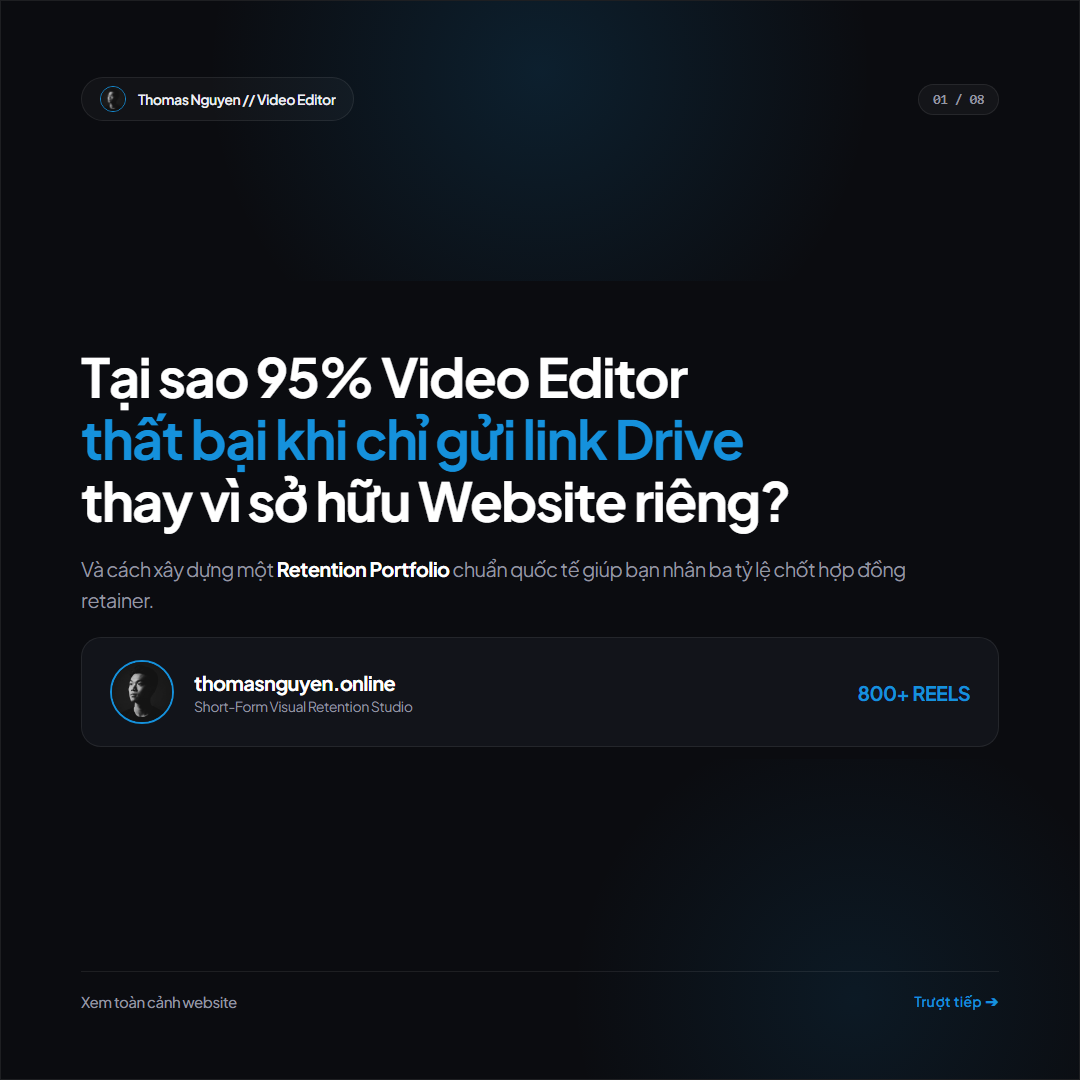
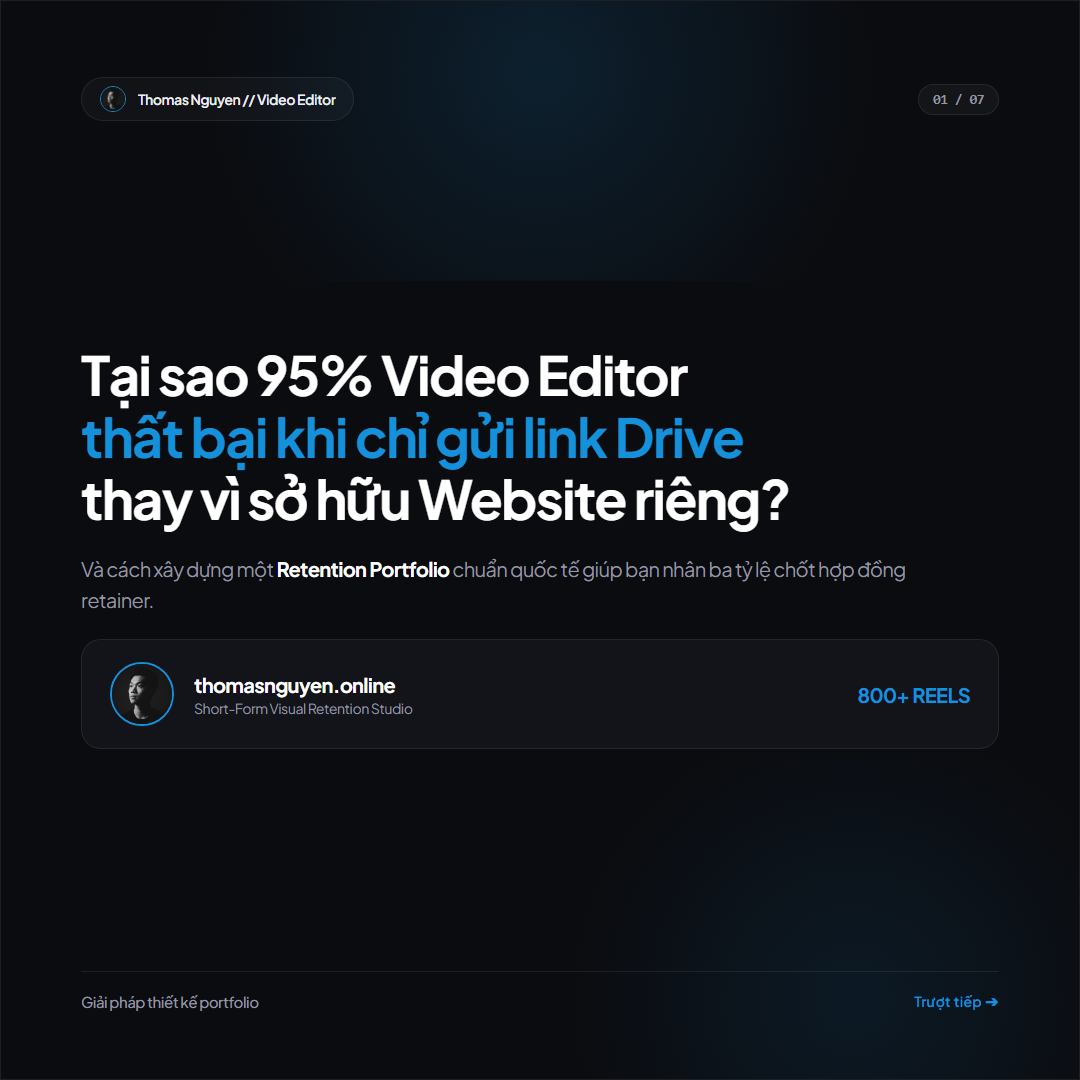
Remove slide 2, finalize 7-Slide Instagram Carousel with HD Reels and refined CTA button

diff --git a/public/carousel_maker.html b/public/carousel_maker.html
@@ -3,7 +3,7 @@
 <head>
   <meta charset="UTF-8">
   <meta name="viewport" content="width=device-width, initial-scale=1.0">
-  <title>Instagram Carousel 1:1 - Pure Swiss Font - 8 Harmonious Slides</title>
+  <title>Instagram Carousel 1:1 - Pure Swiss Font - 7 Clean Slides</title>
   <link rel="preconnect" href="https://fonts.googleapis.com">
   <link rel="preconnect" href="https://fonts.gstatic.com" crossorigin>
   <link href="https://fonts.googleapis.com/css2?family=Plus+Jakarta+Sans:wght@400;500;600;700;800&display=swap" rel="stylesheet">
@@ -102,7 +102,7 @@
       z-index: 10;
       display: flex;
       flex-direction: column;
-      gap: 22px;
+      gap: 24px;
     }
     .slide-footer {
       position: relative;
@@ -129,7 +129,7 @@
       background: #12141a;
       border: 1px solid rgba(255,255,255,0.08);
       border-radius: 20px;
-      padding: 22px 26px;
+      padding: 24px 28px;
     }
     .badge-pill {
       display: inline-flex;
@@ -147,13 +147,6 @@
       background: rgba(21,145,220,0.15);
       border-color: rgba(21,145,220,0.4);
       color: #1591DC;
-    }
-    .mosaic-card {
-      border-radius: 14px;
-      overflow: hidden;
-      border: 1px solid rgba(255,255,255,0.1);
-      background: #000;
-      position: relative;
     }
   </style>
   <script>
@@ -186,7 +179,7 @@
         <img src="/thomas_portrait.jpg" alt="Thomas">
         <span>Thomas Nguyen // Video Editor</span>
       </div>
-      <div class="slide-num">01 / 08</div>
+      <div class="slide-num">01 / 07</div>
     </div>
 
     <div class="slide-content">
@@ -213,12 +206,12 @@
     </div>
 
     <div class="slide-footer">
-      <span>Xem toàn cảnh website</span>
+      <span>Giải pháp thiết kế portfolio</span>
       <div class="swipe-indicator">Trượt tiếp ➔</div>
     </div>
   </div>
 
-  <!-- SLIDE 2: TOÀN CẢNH CROP CÁC PHÂN ĐOẠN CỦA WEBSITE TRONG 1 ÁNH NHÌN (NEW MOSAIC SHOWCASE) -->
+  <!-- SLIDE 2: MULTI-ANGLE SYSTEM OVERVIEW -->
   <div class="slide" id="slide-2">
     <div class="glow-top"></div>
     <div class="glow-bottom"></div>
@@ -226,98 +219,9 @@
     <div class="slide-header">
       <div class="brand-tag">
         <img src="/thomas_portrait.jpg" alt="Thomas">
-        <span>Toàn cảnh website</span>
+        <span>Tổng quan hệ thống</span>
       </div>
-      <div class="slide-num">02 / 08</div>
-    </div>
-
-    <div class="slide-content">
-      <div>
-        <h2 style="font-size: 40px; font-weight: 700; color: #ffffff; line-height: 1.2;">
-          Toàn bộ Website <span style="color: #1591DC;">trong 1 ánh nhìn</span>
-        </h2>
-        <p style="font-size: 16px; color: #9496a1; margin-top: 4px;">
-          Giải phẫu 5 phân đoạn được tối ưu hóa tỷ lệ chuyển đổi từ Hero đến Form nhận Brief.
-        </p>
-      </div>
-
-      <!-- Clean Visual Mosaic Grid of Website Sections -->
-      <div style="display: grid; grid-template-columns: 1fr 1fr; gap: 14px; height: 420px;">
-        
-        <!-- Module 1: Hero & Metric Card -->
-        <div class="card-box" style="padding: 16px; display: flex; flex-direction: column; justify-content: space-between; border-color: rgba(21,145,220,0.35);">
-          <div style="display: flex; justify-content: space-between; align-items: center;">
-            <span style="font-size: 11px; font-weight: 700; color: #1591DC; font-family: monospace;">01. HERO & METRICS</span>
-            <span style="font-size: 10px; color: #9496a1;">FIRST IMPRESSION</span>
-          </div>
-          <div style="font-size: 15px; font-weight: 700; color: #fff; line-height: 1.3;">
-            "Every Great Story Deserves a <span style="color: #1591DC;">Great Editor</span>"
-          </div>
-          <div style="display: flex; gap: 8px; font-size: 11px;">
-            <span style="background: rgba(255,255,255,0.06); padding: 4px 8px; border-radius: 6px; color: #fff; font-weight: 700;">800+ Reels</span>
-            <span style="background: rgba(21,145,220,0.15); padding: 4px 8px; border-radius: 6px; color: #1591DC; font-weight: 700;">85%+ Retention</span>
-          </div>
-        </div>
-
-        <!-- Module 2: About Portrait Spotlight -->
-        <div class="card-box" style="padding: 16px; display: flex; gap: 14px; align-items: center;">
-          <img src="/thomas_portrait.jpg" style="width: 70px; height: 90px; border-radius: 10px; object-fit: cover; filter: grayscale(100%) contrast(125%); border: 1px solid rgba(255,255,255,0.15);">
-          <div style="display: flex; flex-direction: column; gap: 4px;">
-            <span style="font-size: 11px; font-weight: 700; color: #1591DC; font-family: monospace;">02. ABOUT SPOTLIGHT</span>
-            <div style="font-size: 14px; font-weight: 700; color: #fff;">Chân Dung Studio</div>
-            <div style="font-size: 11px; color: #9496a1;">Tạo dựng niềm tin cá nhân vững chắc</div>
-          </div>
-        </div>
-
-        <!-- Module 3: 9:16 Video Showcase Slider -->
-        <div class="card-box" style="padding: 16px; display: flex; flex-direction: column; justify-content: space-between;">
-          <div style="display: flex; justify-content: space-between; align-items: center;">
-            <span style="font-size: 11px; font-weight: 700; color: #1591DC; font-family: monospace;">03. REELS 9:16 SHOWCASE</span>
-            <span style="font-size: 10px; color: #4ade80;">10 REELS LIVE</span>
-          </div>
-          <div style="display: flex; gap: 8px;">
-            <img src="/reel_thumb_1.jpg" style="width: 48px; height: 64px; border-radius: 6px; object-fit: cover; border: 1px solid rgba(255,255,255,0.1);">
-            <img src="/reel_thumb_2.jpg" style="width: 48px; height: 64px; border-radius: 6px; object-fit: cover; border: 1px solid #1591DC;">
-            <img src="/reel_thumb_3.jpg" style="width: 48px; height: 64px; border-radius: 6px; object-fit: cover; border: 1px solid rgba(255,255,255,0.1);">
-          </div>
-          <div style="font-size: 11px; color: #9496a1;">Xem ngay 1 click, không độ trễ</div>
-        </div>
-
-        <!-- Module 4: 3-Step Process & Intake Form -->
-        <div class="card-box" style="padding: 16px; display: flex; flex-direction: column; justify-content: space-between;">
-          <div style="display: flex; justify-content: space-between; align-items: center;">
-            <span style="font-size: 11px; font-weight: 700; color: #1591DC; font-family: monospace;">04. PROCESS & FUNNEL</span>
-            <span style="font-size: 10px; color: #9496a1;">48H DELIVERY</span>
-          </div>
-          <div style="font-size: 12px; color: #ededf3; line-height: 1.4;">
-            • Tiến độ 48H trên Frame.io <br>
-            • Form gửi Brief tự động về Gmail
-          </div>
-          <div style="display: flex; gap: 6px;">
-            <span style="font-size: 10px; background: #1591DC; color: #fff; padding: 2px 8px; border-radius: 4px; font-weight: 700;">Calendly Sync</span>
-          </div>
-        </div>
-
-      </div>
-    </div>
-
-    <div class="slide-footer">
-      <span>Trải nghiệm đa thiết bị</span>
-      <div class="swipe-indicator">Trượt tiếp ➔</div>
-    </div>
-  </div>
-
-  <!-- SLIDE 3: MULTI-ANGLE SYSTEM OVERVIEW -->
-  <div class="slide" id="slide-3">
-    <div class="glow-top"></div>
-    <div class="glow-bottom"></div>
-    
-    <div class="slide-header">
-      <div class="brand-tag">
-        <img src="/thomas_portrait.jpg" alt="Thomas">
-        <span>Giao diện thực tế</span>
-      </div>
-      <div class="slide-num">03 / 08</div>
+      <div class="slide-num">02 / 07</div>
     </div>
 
     <div class="slide-content">
@@ -330,6 +234,7 @@
         </p>
       </div>
 
+      <!-- Balanced UI Preview Grid -->
       <div style="display: grid; grid-template-columns: 1.3fr 1fr; gap: 18px;">
         
         <!-- Desktop UI Mockup Box -->
@@ -415,8 +320,8 @@
     </div>
   </div>
 
-  <!-- SLIDE 4: POSITIONING & REAL STUDIO PORTRAIT -->
-  <div class="slide" id="slide-4">
+  <!-- SLIDE 3: POSITIONING & REAL STUDIO PORTRAIT -->
+  <div class="slide" id="slide-3">
     <div class="glow-top"></div>
     <div class="glow-bottom"></div>
     
@@ -425,7 +330,7 @@
         <img src="/thomas_portrait.jpg" alt="Thomas">
         <span>Định vị chuyên gia</span>
       </div>
-      <div class="slide-num">04 / 08</div>
+      <div class="slide-num">03 / 07</div>
     </div>
 
     <div class="slide-content">
@@ -481,8 +386,8 @@
     </div>
   </div>
 
-  <!-- SLIDE 5: VIDEO SHOWCASE WITH REAL THUMBS -->
-  <div class="slide" id="slide-5">
+  <!-- SLIDE 4: VIDEO SHOWCASE WITH REAL THUMBS -->
+  <div class="slide" id="slide-4">
     <div class="glow-top"></div>
     <div class="glow-bottom"></div>
     
@@ -491,7 +396,7 @@
         <img src="/thomas_portrait.jpg" alt="Thomas">
         <span>Trình diễn sản phẩm</span>
       </div>
-      <div class="slide-num">05 / 08</div>
+      <div class="slide-num">04 / 07</div>
     </div>
 
     <div class="slide-content">
@@ -558,8 +463,8 @@
     </div>
   </div>
 
-  <!-- SLIDE 6: 3-STEP PROCESS -->
-  <div class="slide" id="slide-6">
+  <!-- SLIDE 5: 3-STEP PROCESS -->
+  <div class="slide" id="slide-5">
     <div class="glow-top"></div>
     <div class="glow-bottom"></div>
     
@@ -568,7 +473,7 @@
         <img src="/thomas_portrait.jpg" alt="Thomas">
         <span>Quy trình làm việc</span>
       </div>
-      <div class="slide-num">06 / 08</div>
+      <div class="slide-num">05 / 07</div>
     </div>
 
     <div class="slide-content">
@@ -629,8 +534,8 @@
     </div>
   </div>
 
-  <!-- SLIDE 7: CONVERSION FUNNEL -->
-  <div class="slide" id="slide-7">
+  <!-- SLIDE 6: CONVERSION FUNNEL -->
+  <div class="slide" id="slide-6">
     <div class="glow-top"></div>
     <div class="glow-bottom"></div>
     
@@ -639,7 +544,7 @@
         <img src="/thomas_portrait.jpg" alt="Thomas">
         <span>Phễu chuyển đổi</span>
       </div>
-      <div class="slide-num">07 / 08</div>
+      <div class="slide-num">06 / 07</div>
     </div>
 
     <div class="slide-content">
@@ -685,8 +590,8 @@
     </div>
   </div>
 
-  <!-- SLIDE 8: SUMMARY & ULTRA-ELEGANT CTA BUTTON -->
-  <div class="slide" id="slide-8">
+  <!-- SLIDE 7: SUMMARY & ULTRA-ELEGANT CTA BUTTON -->
+  <div class="slide" id="slide-7">
     <div class="glow-top"></div>
     <div class="glow-bottom"></div>
     
@@ -695,7 +600,7 @@
         <img src="/thomas_portrait.jpg" alt="Thomas">
         <span>Thomas Nguyen // Video Editor</span>
       </div>
-      <div class="slide-num">08 / 08</div>
+      <div class="slide-num">07 / 07</div>
     </div>
 
     <div class="slide-content" style="gap: 24px;">
